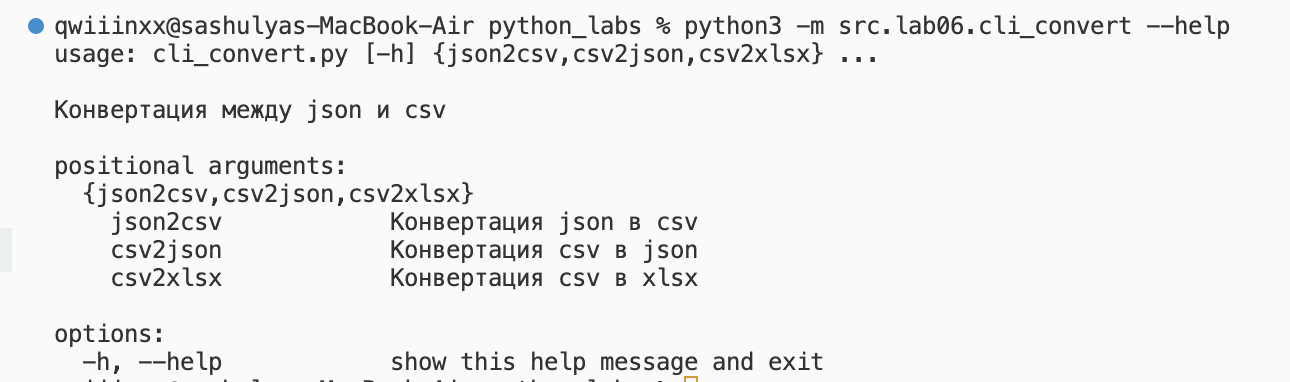
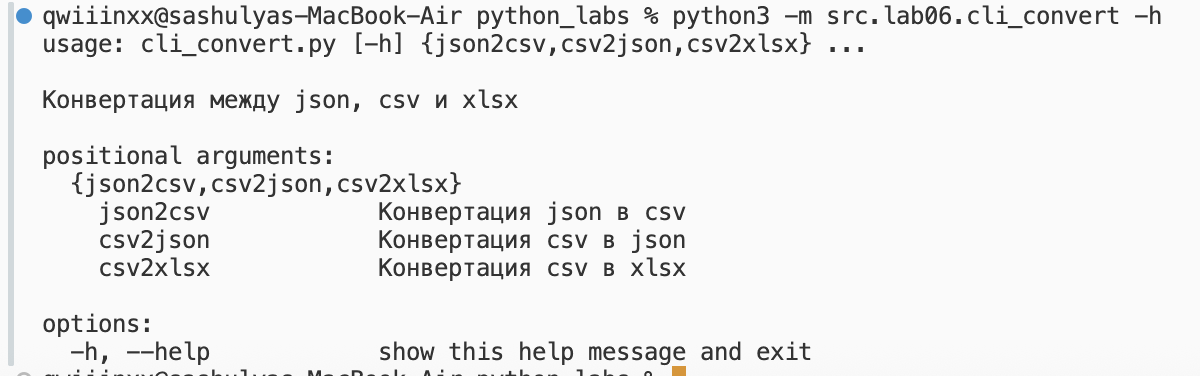
global new

Changed region(s): [[0.0, 0.0, 0.9867, 1.0]]

diff --git a/src/lab06/cli_convert.py b/src/lab06/cli_convert.py
@@ -6,7 +6,7 @@ from src.lab05.csv_xlsx import csv_to_xlsx
 
 
 def main():
-    parser = argparse.ArgumentParser(description="Конвертация между json и csv")
+    parser = argparse.ArgumentParser(description="Конвертация между json, csv и xlsx")
     subparsers = parser.add_subparsers(dest="command")
 
     # подкоманда json2csv
@@ -39,6 +39,7 @@ def main():
             print("Конвертация завершена")
         except FileNotFoundError:
             parser.error("Входной файл не найден")
+
     elif args.command == "csv2xlsx":
         try:
             csv_to_xlsx(args.input, args.output)

diff --git a/README.md b/README.md
@@ -733,7 +733,16 @@ if __name__ == "__main__":
 ![Картинка 8](./images/lab06/img08.png)
 ---
 ### Запуск **csv2xlsx** через ```python3 -m src.lab06.cli_convert csv2xlsx --input data/samples/cities.csv --output data/out/cities.xlsx```
+терминал:
 ![Картинка 11](./images/lab06/img11.png)
+таблица:
+![Картинка 12](./images/lab06/img12.png)
 
-### Проверка --help
+### Проверка --help глобально
 ![Картинка 10](./images/lab06/img10.png)
+### Проверка --help json2csv
+![Картинка 13](./images/lab06/img13.png)
+### Проверка --help csv2json
+![Картинка 14](./images/lab06/img14.png)
+### Проверка --help csv2xlsx
+![Картинка 15](./images/lab06/img15.png)
